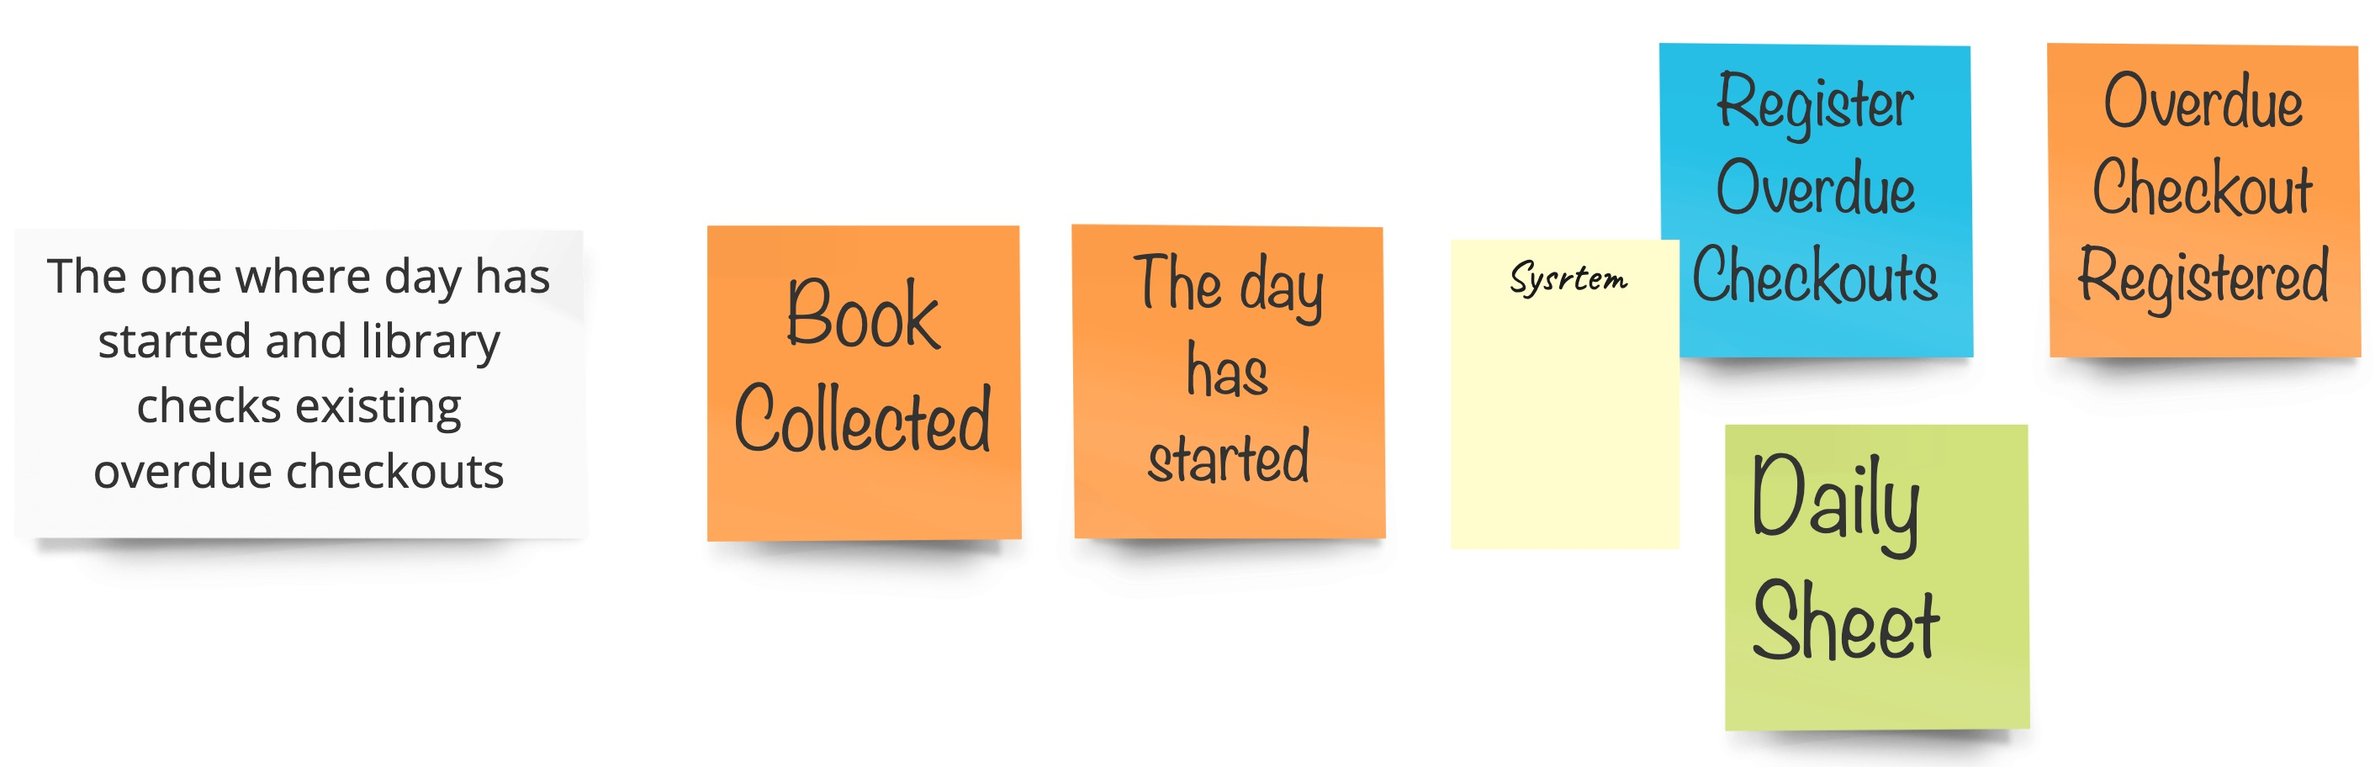
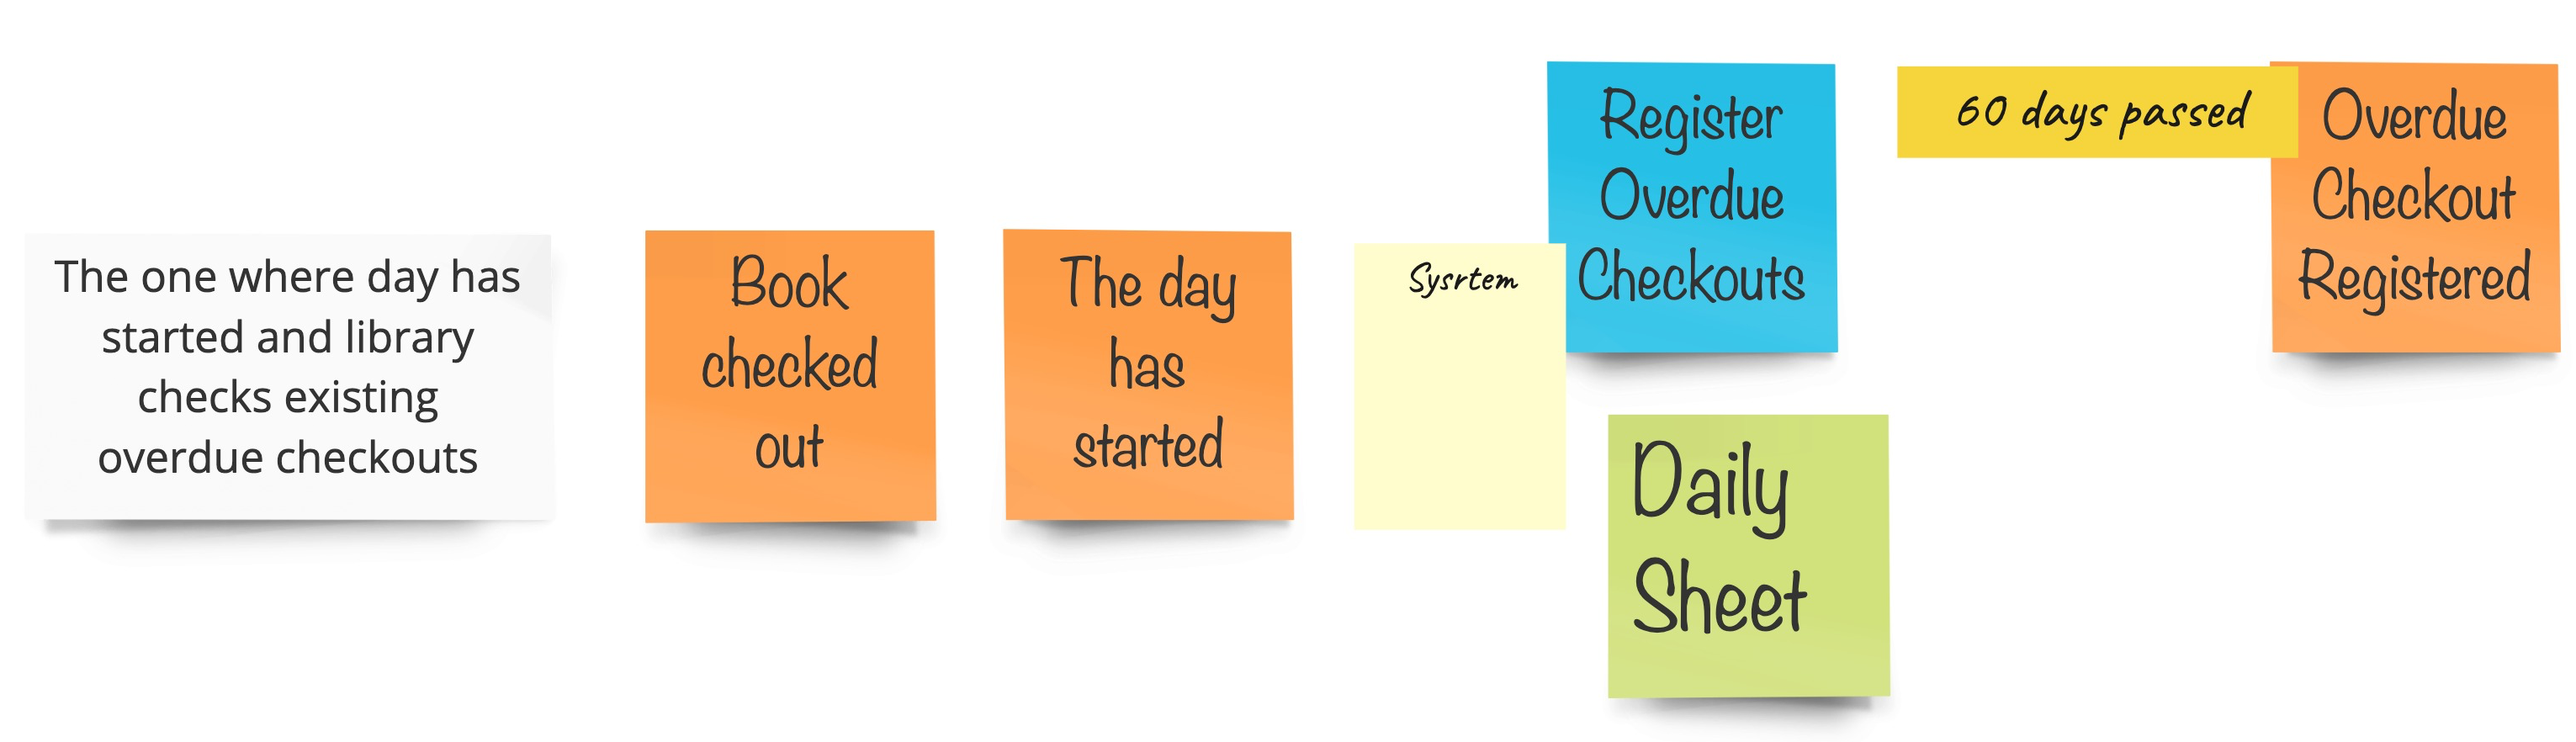
overdue checkouts described

diff --git a/docs/design-level.md b/docs/design-level.md
@@ -147,7 +147,13 @@ The expiration check should mark each hold as expired only once:
 
 ## Registering overdue checkout
 
+Each book can be checked out for not longer than 60 days. **Overdue checkouts** are identified on a daily basis by looking
+at the **Daily sheet** (please mind the green sticky note):
+ 
 ![Overdue checkout example 1](images/dl/overduecheckouts/example-1.png)  
+
+Moreover we do not expect the **returned book** to be ever registered as **overdue checkout**:
+
 ![Overdue checkout example 2](images/dl/overduecheckouts/example-2.png)  
 
 ## Adding to catalogue
